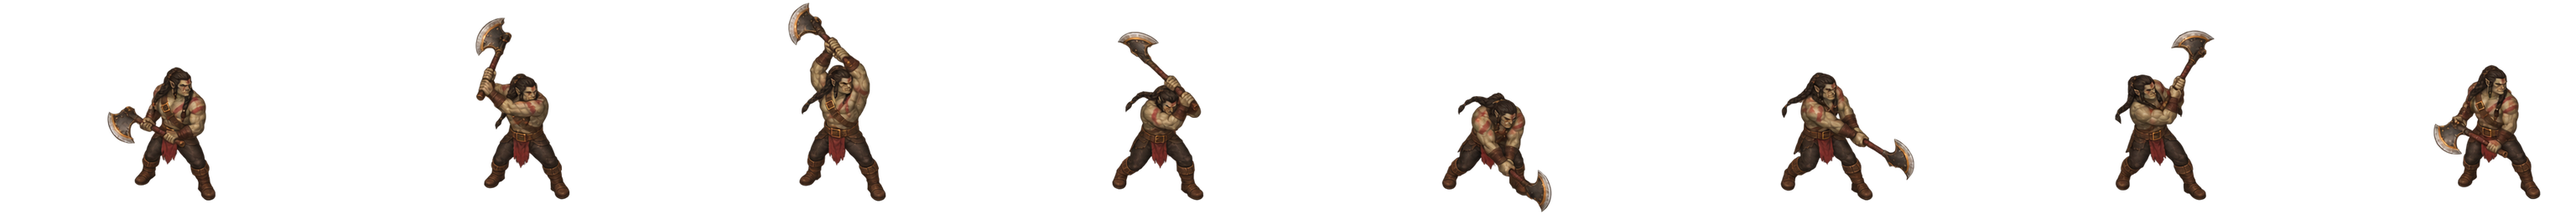
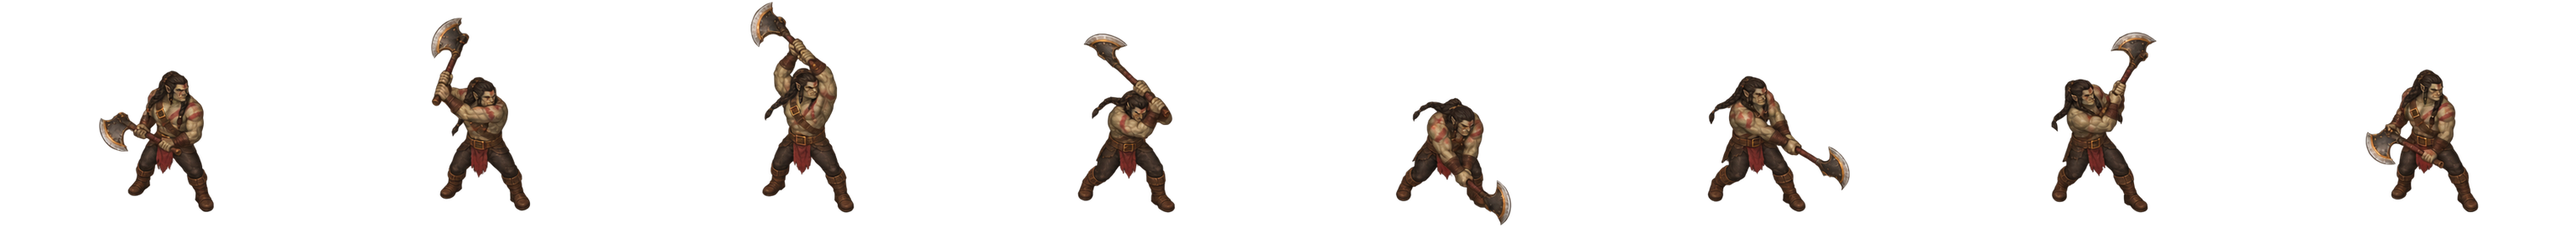
LOT-112 — l'attaque vue du sud-est tient sur sa case
À la demande de l'auteur : l'attaque sud-est est recentrée (option
recentre : chaque image pose son bassin au milieu de la cellule), le
générateur faisait glisser le corps de 70 px.

Les pieds de la plupart des images (la médiane des points bas) se posent
sur le sol, plus le point le plus bas de la bande : la lame qui plonge
devant les pieds soulevait toute l'attaque de 13 px. Ce qui passe sous
le sol agrandit la cellule vers le bas.

diff --git a/scripts/install_hd_asset.py b/scripts/install_hd_asset.py
@@ -166,7 +166,11 @@ PORTRAIT = 512
 JETON = 128
 ORIENTATIONS = {"se", "sw", "ne", "nw"}
 CHAMPS_FIGURE = {"name", "strips", "portrait", "token"}
-CHAMPS_BANDE = {"source", "clip", "facing", "frames", "frameDuration", "loop", "wide", "standingFrame", "scale"}
+CHAMPS_BANDE = {"source", "clip", "facing", "frames", "frameDuration", "loop", "wide", "standingFrame", "scale",
+                "recentre"}
+# La bande du bassin, en hauteurs de figurine au-dessus du sol : ce qu'une image recentrée pose au
+# milieu de sa cellule. Les bras et la hache bougent, les pieds font un pas ; le bassin reste.
+BASSIN = (0.30, 0.55)
 # Un dossier de figurine : des dossiers de rangement (`Heroes`), puis le nom de la figurine.
 DOSSIER = re.compile(r"^[A-Za-z0-9]+(-[a-z0-9]+)*$")
 CLIP = re.compile(r"^[a-z]+$")
@@ -210,6 +214,9 @@ class StripSpec:
     loop: bool = True
     wide: bool = False
     standing_frame: int = 0
+    # Chaque image recentrée sur son bassin : la figurine reste sur sa case au lieu de suivre la
+    # dérive du générateur d'une image à l'autre.
+    recentre: bool = False
     scale: float | None = None
 
     @property
@@ -379,6 +386,10 @@ def read_strip(raw, where: str) -> StripSpec:
         if isinstance(scale, bool) or not isinstance(scale, (int, float)) or not 0 < scale <= 1:
             raise DescriptorError(f"{where} : `scale` dans ]0, 1] (l'art n'est jamais agrandi)")
         spec.scale = float(scale)
+    if "recentre" in raw:
+        if not isinstance(raw["recentre"], bool):
+            raise DescriptorError(f"{where} : `recentre` est un booléen")
+        spec.recentre = raw["recentre"]
     return spec
 
 
@@ -875,8 +886,8 @@ def install_strip(spec: StripSpec, rgba: np.ndarray, cell: tuple[int, int], grou
     # Une pose plus haute que la cellule (la hache levée au-dessus de la tête) réduit toute la bande
     # juste assez pour tenir : quelques pour-cent de moins se voient moins qu'une lame coupée net.
     extents = [np.nonzero(image[..., 3].any(axis=1))[0] for image in images]
-    lowest = max(int(e.max()) for e in extents)
-    tallest = max(lowest + 1 - int(e.min()) for e in extents)
+    feet = float(np.median([int(e.max()) for e in extents]))
+    tallest = max(feet + 1 - int(e.min()) for e in extents)
     if spec.scale is None and tallest * scale > ground:
         fitted = (ground - 1) / tallest
         split = f"{split}, échelle réduite de {100 * (1 - fitted / scale):.0f} % pour tenir"
@@ -893,11 +904,12 @@ def install_strip(spec: StripSpec, rgba: np.ndarray, cell: tuple[int, int], grou
         parts.append((resize_premultiplied(image[y0:y1, x0:x1], size), round(x0 * scale), round(y0 * scale)))
     slots = [c * scale for c in centres]
 
-    # Le décalage de toute la bande. En hauteur : le pied le plus BAS de la bande sur le sol — un
-    # appui d'une autre image descend souvent de quelques pixels sous celui de l'image de repos (le
-    # générateur ne tient pas sa ligne de sol au pixel), et poser l'image de repos ferait passer cet
-    # appui sous le sol, hors de la cellule. Un saut ou un accroupissement restent au-dessus. En
-    # largeur : le milieu de la boîte de l'image de repos au milieu de la cellule.
+    # Le décalage de toute la bande. En hauteur : les pieds de la plupart des images — la médiane de
+    # leurs points bas — sur le sol. Ni l'image de repos seule (le générateur ne tient pas sa ligne
+    # de sol au pixel), ni le point le plus bas de la bande : une lame qui plonge devant les pieds
+    # soulevait toute l'attaque de 13 px. Ce qui descend sous le sol — cette lame, un corps allongé
+    # vers l'œil — agrandit la cellule vers le bas. En largeur : le milieu de la boîte de l'image de
+    # repos au milieu de la cellule, ou, recentrée, chaque image par son bassin.
     lowest = []
     for part, _, top in parts:
         opaque = np.nonzero((part[..., 3] >= OPAQUE).any(axis=1))[0]
@@ -905,7 +917,7 @@ def install_strip(spec: StripSpec, rgba: np.ndarray, cell: tuple[int, int], grou
             lowest.append(top + int(opaque.max()))
     if not lowest:
         raise DescriptorError(f"{where} : aucune image opaque après réduction")
-    dy = ground - max(lowest)
+    dy = ground - round(float(np.median(lowest)))
     part, left, _ = parts[standing]
     xs = np.nonzero((part[..., 3] >= OPAQUE).any(axis=0))[0]
     if len(xs) == 0:
@@ -913,11 +925,22 @@ def install_strip(spec: StripSpec, rgba: np.ndarray, cell: tuple[int, int], grou
     box_centre = left + (xs.min() + xs.max() + 1) / 2.0
 
     cell_w, cell_h = cell
+    # La cellule s'allonge vers le bas, par pas de 8 px, pour ce qui passe sous le sol : le moteur lit
+    # sa hauteur dans le `.anim.json` et pose la ligne de sol depuis le haut, rien d'autre ne change.
+    below = max(top + int(np.nonzero(part[..., 3] > 0)[0].max()) + 1 + dy for part, _, top in parts)
+    cell_h = max(cell_h, -(-below // 8) * 8)
+    hips = (ground - round(BASSIN[1] * HAUTEUR_FIGURINE), ground - round(BASSIN[0] * HAUTEUR_FIGURINE))
     strip = np.zeros((cell_h, cell_w * spec.frames, 4), np.uint8)
     measures: list[FrameMeasure] = []
     for i, (part, left, top) in enumerate(parts):
         # La colonne u de la bande réduite tombe en u + ox dans la cellule.
         ox = round(cell_w / 2.0 - box_centre + slots[standing] - slots[i])
+        if spec.recentre:
+            band = part[max(0, hips[0] - dy - top):max(0, hips[1] - dy - top), :, 3] >= OPAQUE
+            columns = np.nonzero(band)[1]
+            if len(columns) == 0:
+                raise DescriptorError(f"{where} : l'image {i + 1} n'a rien à hauteur de bassin à recentrer")
+            ox = round(cell_w / 2.0 - (left + float(columns.mean())))
         ys, xs = np.nonzero(part[..., 3] > 0)
         x0, x1 = left + int(xs.min()) + ox, left + int(xs.max()) + 1 + ox
         y0, y1 = top + int(ys.min()) + dy, top + int(ys.max()) + 1 + dy
@@ -939,7 +962,8 @@ def install_strip(spec: StripSpec, rgba: np.ndarray, cell: tuple[int, int], grou
         "clips": {spec.clip: {"frames": list(range(spec.frames)), "frameDuration": spec.frame_duration,
                               "loop": spec.loop}},
     }
-    return InstalledStrip(spec=spec, image=strip, anim=anim, scale=scale, cell=cell, frames=measures, split=split)
+    return InstalledStrip(spec=spec, image=strip, anim=anim, scale=scale, cell=(cell_w, cell_h), frames=measures,
+                          split=split)
 
 
 def square(rgba: np.ndarray, side: int, where: str) -> np.ndarray:

diff --git a/Planning/versions/v0.1.0/v0.0.1-demo/lots/LOT-112-heros-de-la-demo.md b/Planning/versions/v0.1.0/v0.0.1-demo/lots/LOT-112-heros-de-la-demo.md
@@ -151,8 +151,14 @@ du portrait.
 Les vingt bandes acceptées par l'auteur (`Tools/AssetsHD/Common/Characters/Heroes/brawler/selection-acceptee.json`)
 sont installées dans `Common/Characters/Heroes/brawler/` avec le portrait et le jeton : 4,3 Mio.
 
-- **Le pied le plus bas de toute la bande** se pose sur 252, pas celui de l'image de repos : le
-  générateur ne tient pas sa ligne de sol au pixel, et un appui d'une autre image passait sous le sol.
+- **Les pieds de la plupart des images** — la médiane de leurs points bas — se posent sur 252 : ni
+  l'image de repos seule (le générateur ne tient pas sa ligne de sol au pixel), ni le point le plus
+  bas de la bande (la lame de l'attaque, qui plonge devant les pieds, soulevait tout de 13 px). Ce qui
+  passe sous le sol agrandit la cellule vers le bas, par pas de 8 px (272 pour l'attaque vue du
+  sud-est) ; le moteur pose la ligne de sol depuis le haut de la cellule et n'en sait rien de plus.
+- **L'attaque vue du sud-est est recentrée** (`"recentre": true`, demande de l'auteur) : le
+  générateur faisait glisser le corps de 70 px d'une image à l'autre ; chaque image pose désormais son
+  bassin au milieu de la cellule, et l'attaque tient sur sa case.
 - **La découpe rend chaque morceau entier à son image** ; des corps qui se touchent se partagent en
   croissant depuis le milieu de leur image. Couper aux bornes tranchait les haches.
 - **Une pose plus haute que la cellule** (la hache levée) réduit toute la bande juste assez pour
